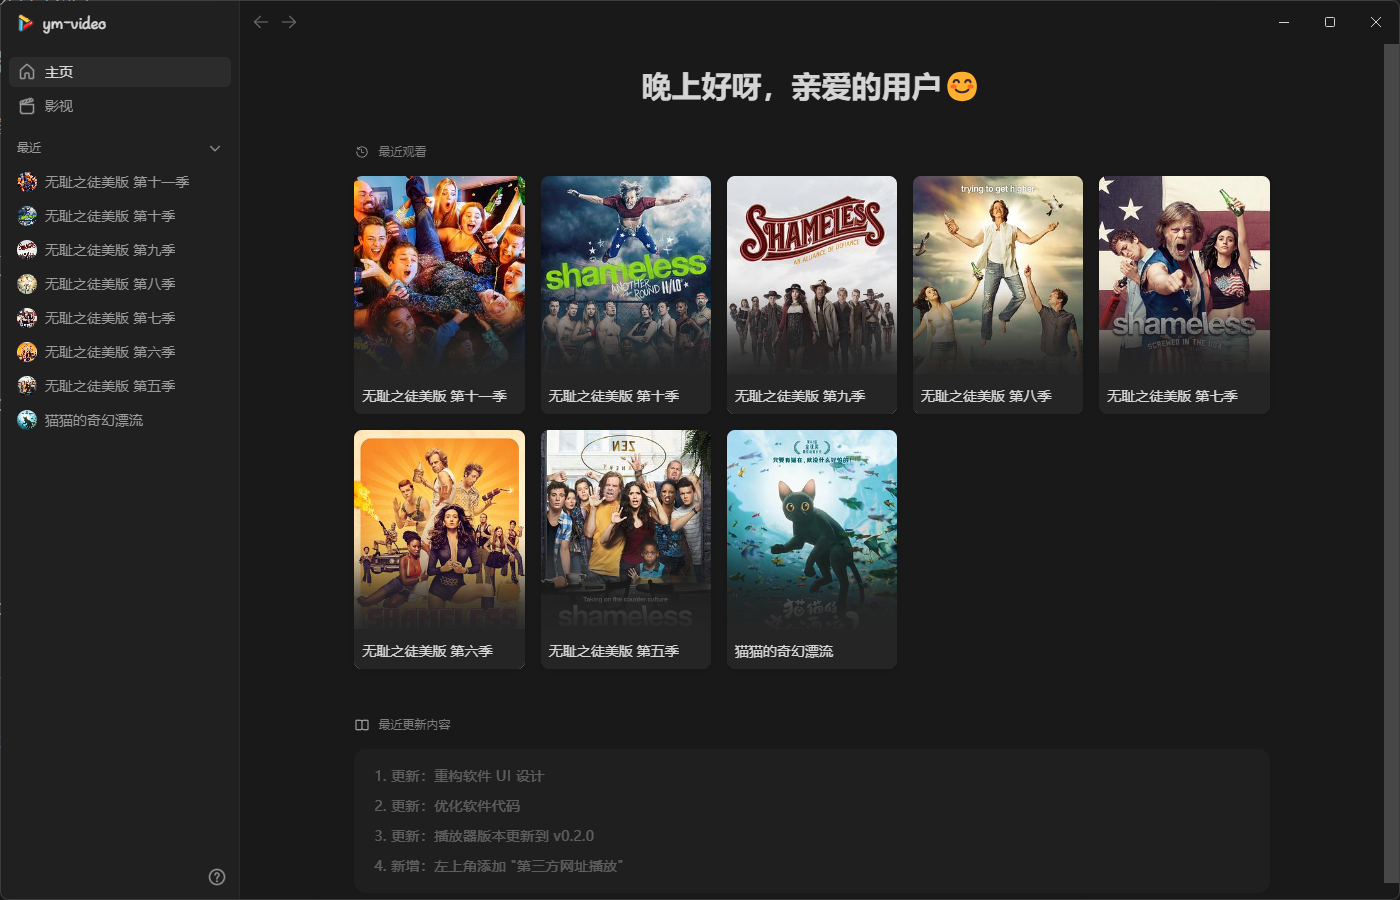
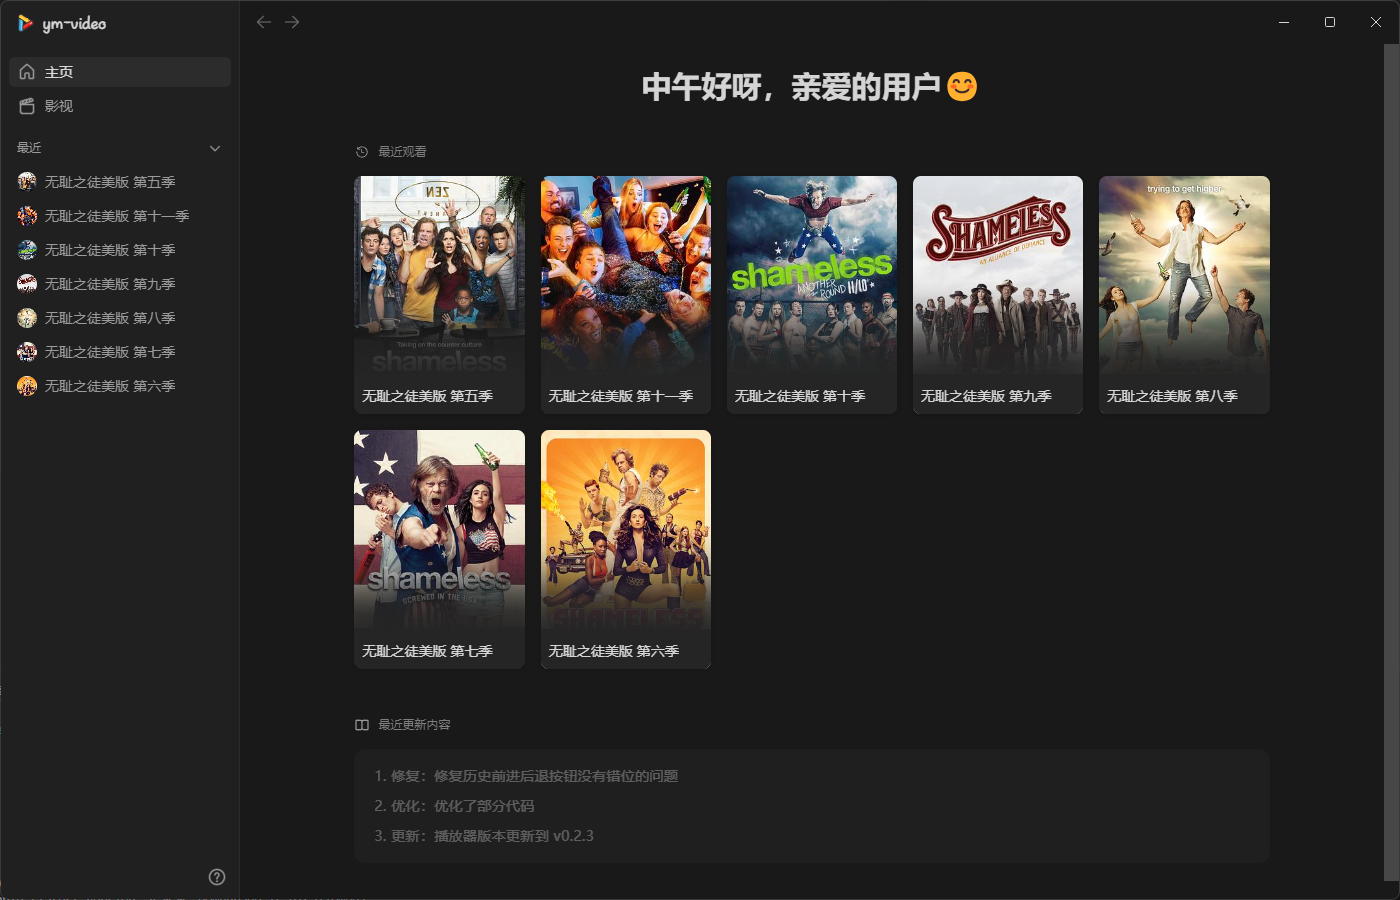
v4.0.1

diff --git a/src/renderer/src/views/Home/index.vue b/src/renderer/src/views/Home/index.vue
@@ -2,17 +2,43 @@
   <Content>
     <TimeGreet class="mb-6"></TimeGreet>
 
-    <HistoryContent />
+    <Group title="最近观看" icon="history" v-if="data.length != 0">
+      <ul class="gap-4 h-fit grid grid-list">
+        <HistoryInfo v-for="item of data" :key="item.name" :data="item" />
+      </ul>
+    </Group>
 
-    <UpdateContent />
+    <Group title="最近更新内容" icon="book">
+      <ul class="group-content rounded-xl px-5 py-3">
+        <li
+          v-for="item of currentDocData.data"
+          class="text-sm text-color-darken tracking-wide flex items-center"
+        >
+          {{ item }}
+        </li>
+      </ul>
+    </Group>
   </Content>
 </template>
 
 <script setup lang="ts">
-import UpdateContent from "./UpdateContent.vue";
-import HistoryContent from "./HistoryContent.vue";
 import Content from "@/components/Content/index.vue";
 import TimeGreet from "./TimeGreet.vue";
+import HistoryInfo from "@/components/Info/HistoryInfo.vue";
+import Group from "@/components/Group.vue";
+import { useVideoStore } from "@/stores/useVideoStore";
+import { useDocStore } from "@/stores/useDocStore";
+
+const { currentDocData } = storeToRefs(useDocStore());
+const { data } = storeToRefs(useVideoStore());
 </script>
 
-<style scoped lang="scss"></style>
+<style scoped lang="scss">
+.group-content {
+  background-color: #1f1f1f;
+
+  > li {
+    height: 30px;
+  }
+}
+</style>

diff --git a/src/renderer/src/views/Film/Movie/index.vue b/src/renderer/src/views/Film/Movie/index.vue
@@ -1,5 +1,5 @@
 <template>
-  <section class="flex gap-5">
+  <section class="flex gap-5 mb-4">
     <MovieCardInfo
       v-for="(item, index) of movieData.slice(0, cardCount)"
       v-model="movieData[index]"
@@ -8,19 +8,19 @@
     />
   </section>
 
-  <GroupTitle title="精选电影" class="mt-4" icon="star" />
-
-  <ul class="gap-4 h-fit grid grid-list" ref="container">
-    <MovieInfo
-      v-for="(item, index) of movieData.slice(cardCount, count)"
-      :key="item.name"
-      v-model="movieData[index + cardCount]"
-    />
-  </ul>
+  <Group title="精选电影" icon="star">
+    <ul class="gap-4 h-fit grid grid-list" ref="container">
+      <MovieInfo
+        v-for="(item, index) of movieData.slice(cardCount, count)"
+        :key="item.name"
+        v-model="movieData[index + cardCount]"
+      />
+    </ul>
+  </Group>
 </template>
 
 <script setup lang="ts">
-import GroupTitle from "@/components/GroupTitle.vue";
+import Group from "@/components/Group.vue";
 import MovieInfo from "@/components/Info/MovieInfo.vue";
 import MovieCardInfo from "@/components/Info/MovieCardInfo.vue";
 import { useMovieStore } from "@/stores/useMovieStore";

diff --git a/src/renderer/src/views/Film/Tv/index.vue b/src/renderer/src/views/Film/Tv/index.vue
@@ -1,5 +1,5 @@
 <template>
-  <section class="flex gap-5">
+  <section class="flex gap-5 mb-4">
     <MovieCardInfo
       v-for="(item, index) of tvData.slice(0, cardCount)"
       v-model="tvData[index]"
@@ -8,19 +8,19 @@
     />
   </section>
 
-  <GroupTitle title="精选电视剧" class="mt-4" icon="star" />
-
-  <ul class="gap-4 h-fit grid grid-list" ref="container">
-    <MovieInfo
-      v-for="(item, index) of tvData.slice(cardCount, count)"
-      v-model="tvData[index + cardCount]"
-      :key="item.name"
-    />
-  </ul>
+  <Group title="精选电视剧" icon="star">
+    <ul class="gap-4 h-fit grid grid-list" ref="container">
+      <MovieInfo
+        v-for="(item, index) of tvData.slice(cardCount, count)"
+        v-model="tvData[index + cardCount]"
+        :key="item.name"
+      />
+    </ul>
+  </Group>
 </template>
 
 <script setup lang="ts">
-import GroupTitle from "@/components/GroupTitle.vue";
+import Group from "@/components/Group.vue";
 import MovieInfo from "@/components/Info/MovieInfo.vue";
 import MovieCardInfo from "@/components/Info/MovieCardInfo.vue";
 import { useTvStore } from "@/stores/useTvStore";

diff --git a/src/renderer/src/components/TitleBar/index.vue b/src/renderer/src/components/TitleBar/index.vue
@@ -2,7 +2,7 @@
   <section class="title-bar flex items-center pl-3 gap-1">
     <ToolTip content="返回">
       <button
-        class="w-6 h-6 rounded-md"
+        class="w-6 h-6 rounded-md flex items-center justify-center"
         :class="{ active: canGoBack }"
         @click="back"
       >
@@ -16,7 +16,7 @@
 
     <ToolTip content="前进">
       <button
-        class="w-6 h-6 rounded-md"
+        class="w-6 h-6 rounded-md flex items-center justify-center"
         :class="{ active: canGoForward }"
         @click="forward"
       >

diff --git a/src/renderer/src/components/Group.vue b/src/renderer/src/components/Group.vue
@@ -1,0 +1,30 @@
+<template>
+  <section class="group mb-8">
+    <header class="h-12 flex items-center gap-2">
+      <Icon :name="icon" size="16" color="#989898" v-if="icon"></Icon>
+
+      <span class="text-xs">{{ title }}</span>
+    </header>
+
+    <main>
+      <slot></slot>
+    </main>
+  </section>
+</template>
+
+<script setup lang="ts">
+defineProps<{
+  title?: string;
+  icon?: string;
+}>();
+</script>
+
+<style scoped lang="scss">
+.group {
+  > header {
+    > span {
+      color: #7f7f7f;
+    }
+  }
+}
+</style>

diff --git a/release-note.md b/release-note.md
@@ -1,12 +1,18 @@
+## v4.0.1
+
+1. 修复：修复历史前进后退按钮没有错位的问题
+
+2. 优化：优化了部分代码
+
+3. 更新：播放器版本更新到 v0.2.3
+
 ## v4.0.0
 
 1. 更新：重构软件 UI 设计
 
 2. 更新：优化软件代码
 
-3. 更新：播放器版本更新到 v0.2.0
-
-4. 新增：左上角添加 "第三方网址播放"
+3. 更新：播放器版本更新到 v0.2.2
 
 ## v3.4.2
 

diff --git a/README.md b/README.md
@@ -10,4 +10,4 @@ ym-video 主要作用是免费观看部分影视作品。
 
 # 软件界面
 
-<img src="./images/home.png" title="" alt="" width="841">
+<img src="./images/home.png">
